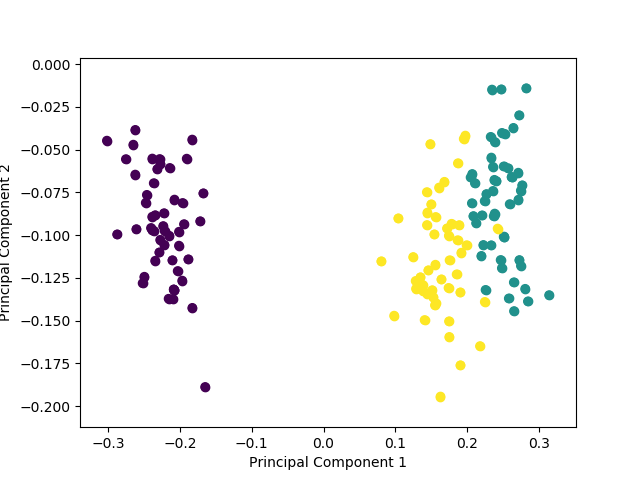
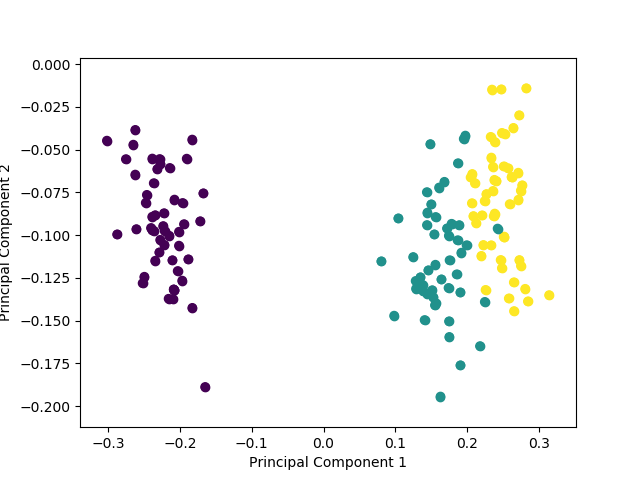
.

diff --git a/examples/example_lda.py b/examples/example_lda.py
@@ -14,12 +14,12 @@ from ml_student.math_tools import mt
 def main():
     df = pd.read_csv("data/iris.csv")
 
+    # convert 'setosa', 'virginica', 'versicolor' to 0, 1, 2
+    df.species = pd.factorize(df.species)[0]
+
     X = df.iloc[:, :-1].values
     X = mt.normalize(np.array(X))
-
     y = df.iloc[:, -1]
-    y = y.replace(to_replace=['setosa', 'virginica',
-                              'versicolor'], value=[0, 1, 2])
     y = y.values
 
     lda = linear_discriminant_analysis.LDA()

diff --git a/examples/example_pca.py b/examples/example_pca.py
@@ -14,12 +14,12 @@ from ml_student.math_tools import mt
 def main():
     df = pd.read_csv("data/iris.csv")
 
+    # convert 'setosa', 'virginica', 'versicolor' to 0, 1, 2
+    df.species = pd.factorize(df.species)[0]
+
     X = df.iloc[:, :-1].values
     X = mt.normalize(np.array(X))
-
     y = df.iloc[:, -1]
-    y = y.replace(to_replace=['setosa', 'virginica',
-                              'versicolor'], value=[0, 1, 2])
     y = y.values
 
     pca = principal_component_analysis.PCA()
